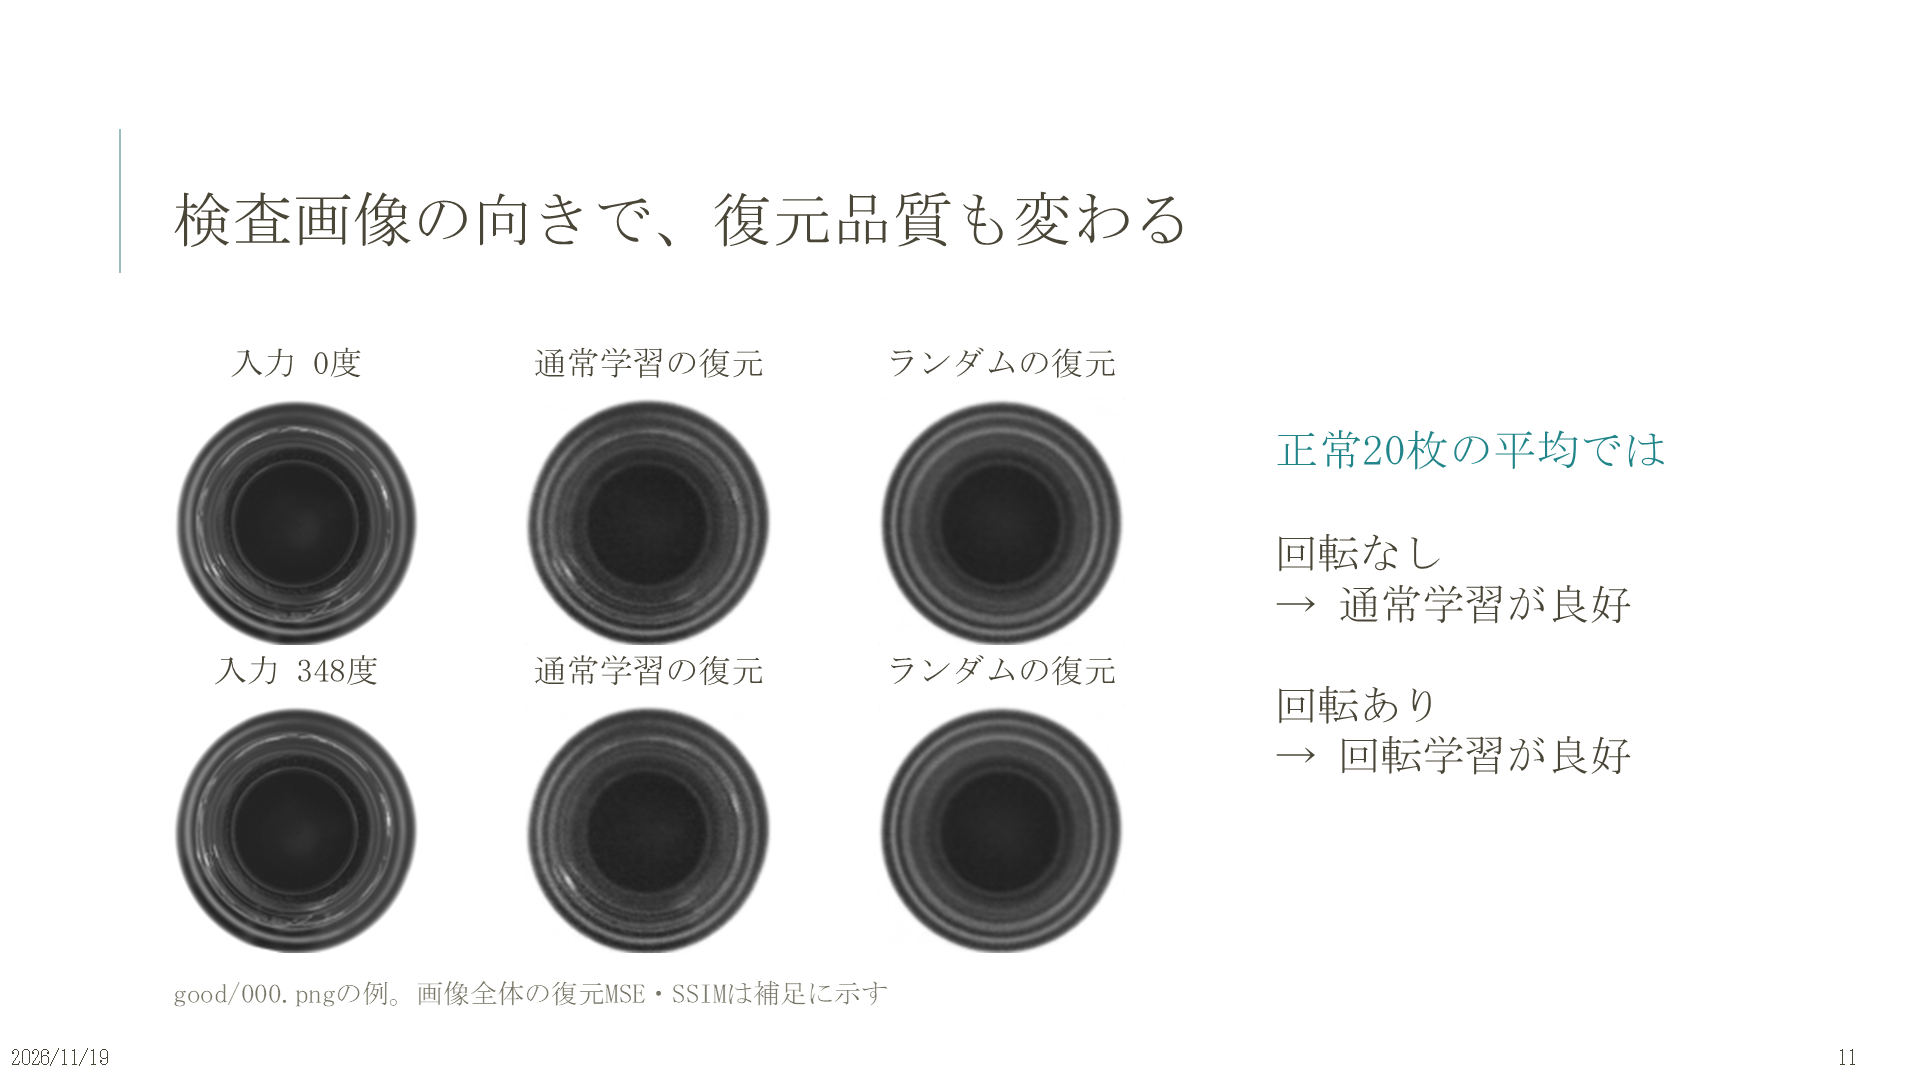
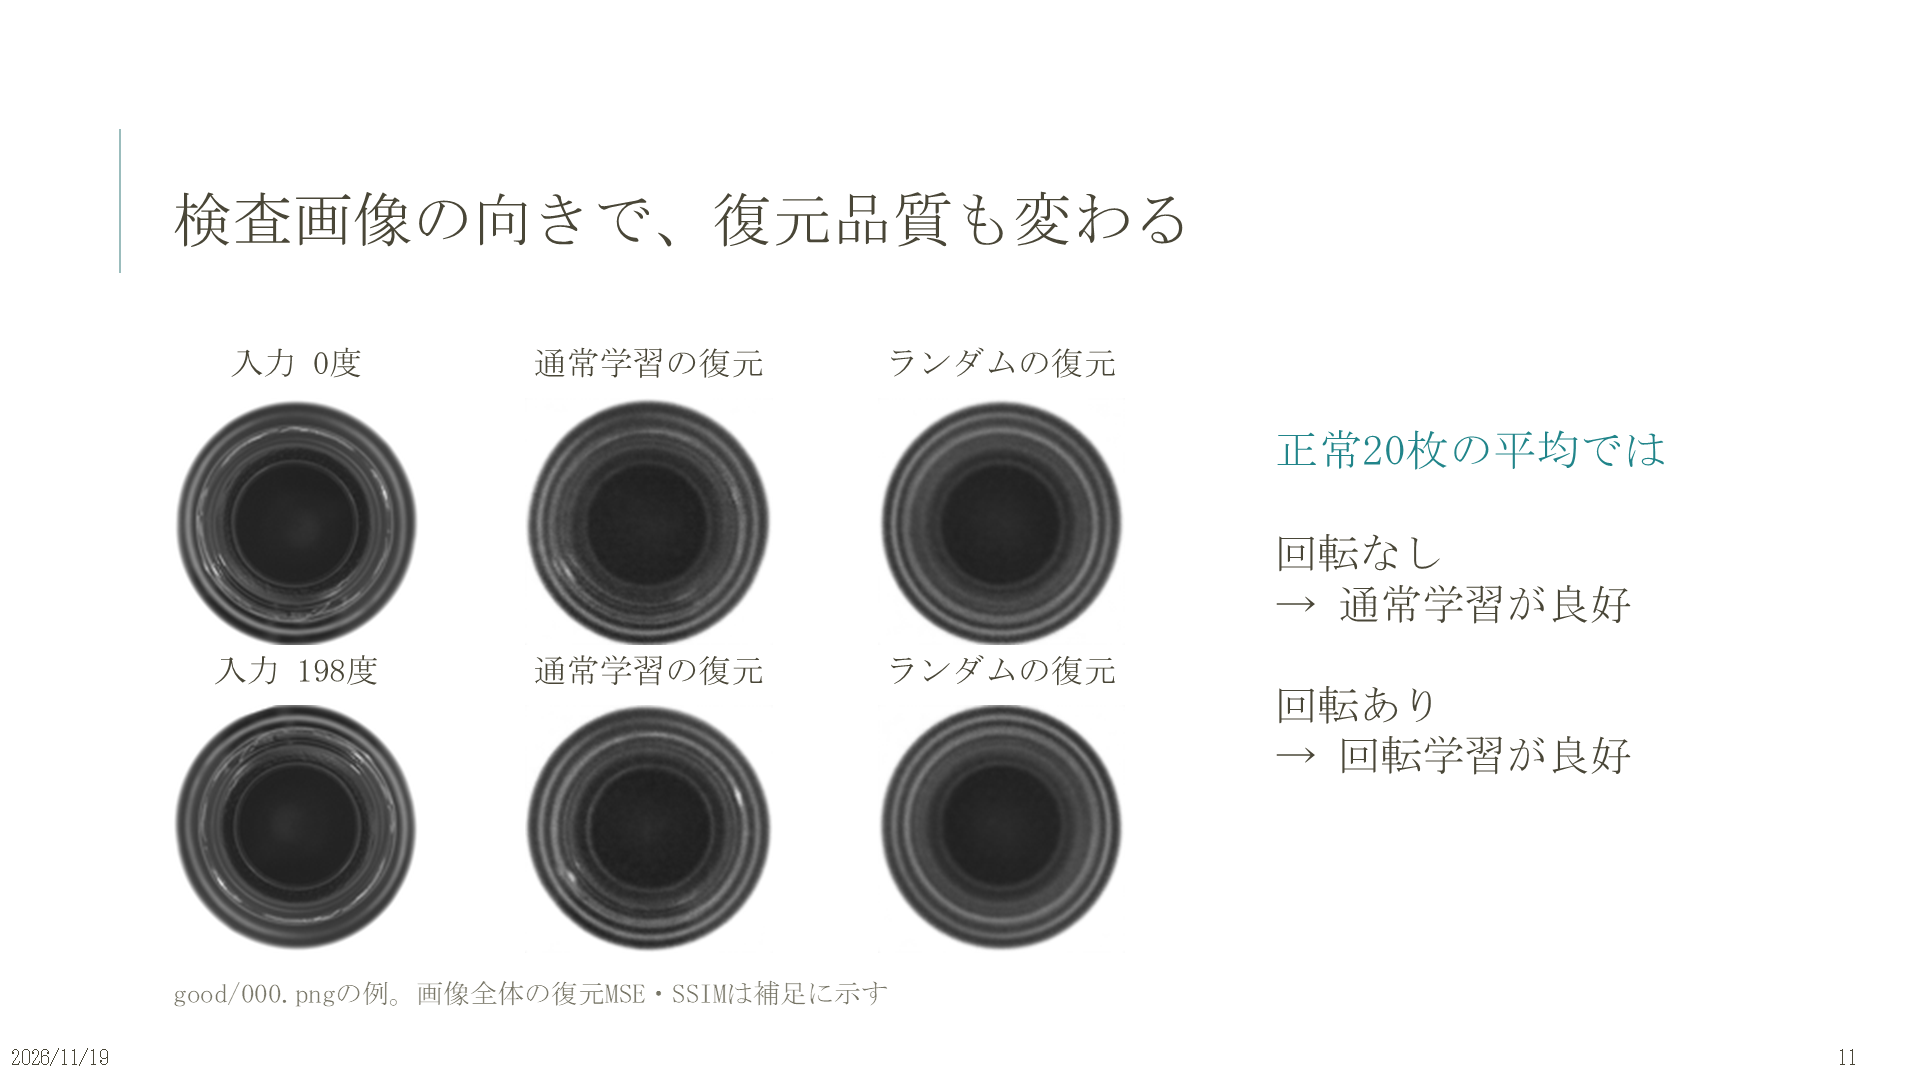
docs: bottle復元比較の回転例を198度の保存済み結果へ差し替え

diff --git a/reports/2026年度秋セメスター/20261119/報告会_20261119_v2_構成と発表メモ.md b/reports/2026年度秋セメスター/20261119/報告会_20261119_v2_構成と発表メモ.md
@@ -30,6 +30,13 @@
 - 今回も新たな学習・推論・性能評価は行っていない。中間角度の評価結果も再掲していない。
 - 全20枚をPowerPoint本体で描画し、追加8枚目と、6枚目の数値だけのラベル・3最高値の赤字を確認。プレビューは今回PowerPointから出力したものへ更新。
 
+## 11枚目の回転例を198度へ変更（2026-11-20）
+
+- 同じ正常画像good/000.pngの上段0度は維持し、下段を348度から198度へ差し替えた。
+- 下段の入力・通常学習の復元・ランダム回転学習の復元は、すべて保存済みseed43の同じ評価結果を使用。
+- 正常20枚の平均や5通りの集計結果の説明は変更していない。新しい学習・推論・性能評価は行っていない。
+- PowerPoint本体で11枚目の表示を確認し、6枚目の数値だけ・小数4桁のラベルも維持されていることを確認した。
+
 ## 報告の中心となる結論
 
 - transistor：回転なしは通常学習0.8283、既知角度は固定回転0.8454が最良。未知ランダム角度は通常0.5437／固定0.4406／ランダム0.8184（5割り当て平均）。
@@ -289,7 +296,7 @@ saved_models/bottle_random_rotation_20261119/20261119_205058_0774e375/evaluation
 - 入力 0度
 - 通常学習の復元
 - ランダムの復元
-- 入力 348度
+- 入力 198度
 - 通常学習の復元
 - ランダムの復元
 - 正常20枚の平均では
@@ -298,12 +305,13 @@ saved_models/bottle_random_rotation_20261119/20261119_205058_0774e375/evaluation
 
 **発表原稿・ノート**
 
-正常画像の代表例を、回転なしと回転ありで比較します。円形の形は両方とも復元していますが、縁や内部模様には誤差が残ります。正常20枚の平均指標では、回転なしは通常学習、回転ありはランダム回転学習が良好でした。単一の写真の見た目やスコアだけで全体の評価を置き換えず、補足のMSE・SSIMと合わせて見ます。復元がきれいなことだけで異常検知性能が高いとは判断しません。
+同じ正常画像good/000.pngの代表例を、上段は0度、下段は198度で比較します。下段の入力と両モデルの復元は、seed43の同じ保存済み評価結果を使っています。円形の形は両方とも復元していますが、縁や内部模様には誤差が残ります。正常20枚の平均指標では、回転なしは通常学習、回転ありはランダム回転学習が良好でした。単一の写真の見た目やスコアだけで全体の評価を置き換えず、補足のMSE・SSIMと合わせて見ます。復元がきれいなことだけで異常検知性能が高いとは判断しません。
 
 出典・参照：
 saved_models/bottle_random_rotation_20261119/20261119_205058_0774e375/evaluations/20261119_225058_0d693a58/normal_reconstruction_summary.csv
 saved_models/bottle_random_rotation_20261119/20261119_205058_0774e375/evaluations/20261119_225058_0d693a58/unrotated_seed-1.npz
-saved_models/bottle_random_rotation_20261119/20261119_205058_0774e375/evaluations/20261119_225058_0d693a58/random_rotated_seed42.npz
+saved_models/bottle_random_rotation_20261119/20261119_205058_0774e375/evaluations/20261119_225058_0d693a58/random_rotated_seed43.npz
+saved_models/bottle_random_rotation_20261119/20261119_205058_0774e375/evaluations/20261119_225058_0d693a58/inputs/random_rotated_seed43.npz
 
 ### 12. 欠陥の差と、正常部分の誤差が同時に現れる
 
@@ -556,3 +564,10 @@ saved_models/bottle_random_rotation_20261119/20261119_205058_0774e375/evaluation
 | --- | --- |
[2 lines of base64/hex data omitted]
+
+### 198度の保存済み評価配列のSHA-256
+
+| ファイル | SHA-256 |
+| --- | --- |
[2 lines of base64/hex data omitted]

diff --git a/memory/memory.md b/memory/memory.md
@@ -746,3 +746,10 @@
 * **観察と限界：** 保存済み候補の写真を見比べたうえで、背景の線や端子の向きが比較しやすい2例を採用。上段の固定回転の復元は108度、下段は180度の比較写真の向きへ寄るように見える。一方、ランダム回転の復元には入力に近い傾きが見られる。ぼけがあるため、観察例として説明し、全例が最も近い学習角度になることや内部の角度選択機構を証明したものとしない。復元角度の定量推定・割合・推定グラフは使用しない。
 * **保存済み結果の出典：** 復元は `saved_models/transistor_rotation_followup_20261118/20261118_180211_7818e304/03_new_model_evaluation/unseen_random_seed42.npz`、入力は `saved_models/transistor_unseen_rotation_20261117/20261117_232200_a212593a/cases/unseen_random_seed42/evaluation_arrays.npz`。元画像は `data/transistor/test/good/001.png` と `017.png`。中間角度の評価結果を戻したわけではない。元配列のSHA-256と角度対応を確認し、新しい学習・推論・性能評価は行っていない。
 * **保存・確認：** OneDriveの同名 `報告会_20261119_v2(AI作成).pptx` を更新し、後続の番号を調整。v1は維持。既存ページの本文と結果の数値は保持し、6枚目の数値だけのラベルと3最高値の赤字も維持。全20枚をPowerPoint本体で読み取り専用・非表示の作業用コピーから描画し、追加8枚目と6枚目を個別確認、全体を一覧でも確認した。発表メモの両保存先、リポジトリのv2プレビュー・一覧を更新し、今回の研究記録とメモ・プレビューのみローカルコミット。pushは行わない。
+
+## 96. 2026-11-20：11枚目のbottleの回転例を348度から198度へ差し替え
+
+* **ユーザーの意図と承認：** 0度と348度では向きの違いを説明しにくいため、100〜200度の例へ変更したいとの依頼。保存済みの同じ正常画像 `good/000.png` のseed43に198度の例があり、入力・通常学習の復元・ランダム回転学習の復元をセットで差し替える案を承認いただいた。
+* **変更と出典：** 同名の `報告会_20261119_v2(AI作成).pptx` の11枚目の下段3画像と角度ラベルを198度へ変更。出典は `saved_models/bottle_random_rotation_20261119/20261119_205058_0774e375/evaluations/20261119_225058_0d693a58/random_rotated_seed43.npz` と同フォルダの `inputs/random_rotated_seed43.npz`。ファイル名・角度・配列の対応とSHA-256を確認し、評価時に保存された入力と復元をそのまま使用した。発表ノートの出典もseed43へ更新。
+* **維持した内容：** 上段の0度入力・両復元、正常20枚の平均に基づく右側の説明、元の集計結果、他19ページの内容、20枚構成を維持。画像は表示用の画素値変換のみで、新しい学習・推論・性能評価は行わない。v1・ノートブック・モデル・実験結果は変更していない。
+* **確認・保存：** 最終PPTXから全20枚を描画して変更が11枚目のみであること、上段0度の描画が一致すること、既存グラフの埋め込みデータを維持することを確認。PowerPoint本体でも11枚目を表示確認し、6枚目の9ラベルが数値だけ・小数4桁であることも確認した。OneDriveのv2と発表メモ、リポジトリのv2発表メモ・11枚目プレビュー・一覧を更新し、今回の記録・メモ・プレビューのみローカルコミット。pushは行わない。
